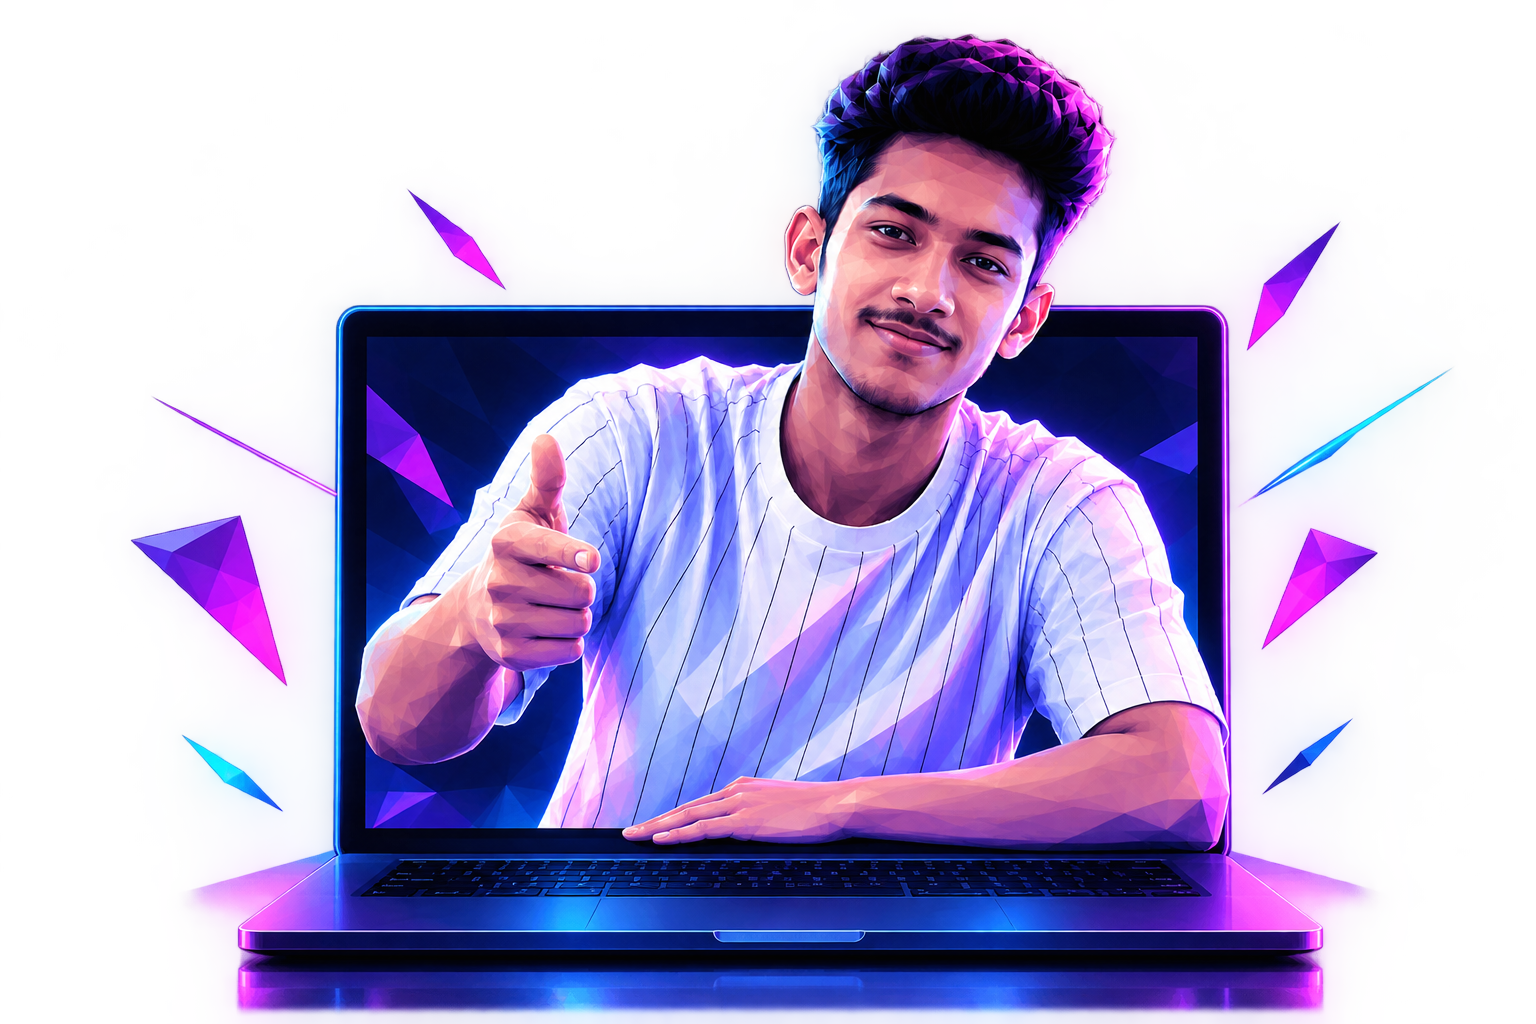
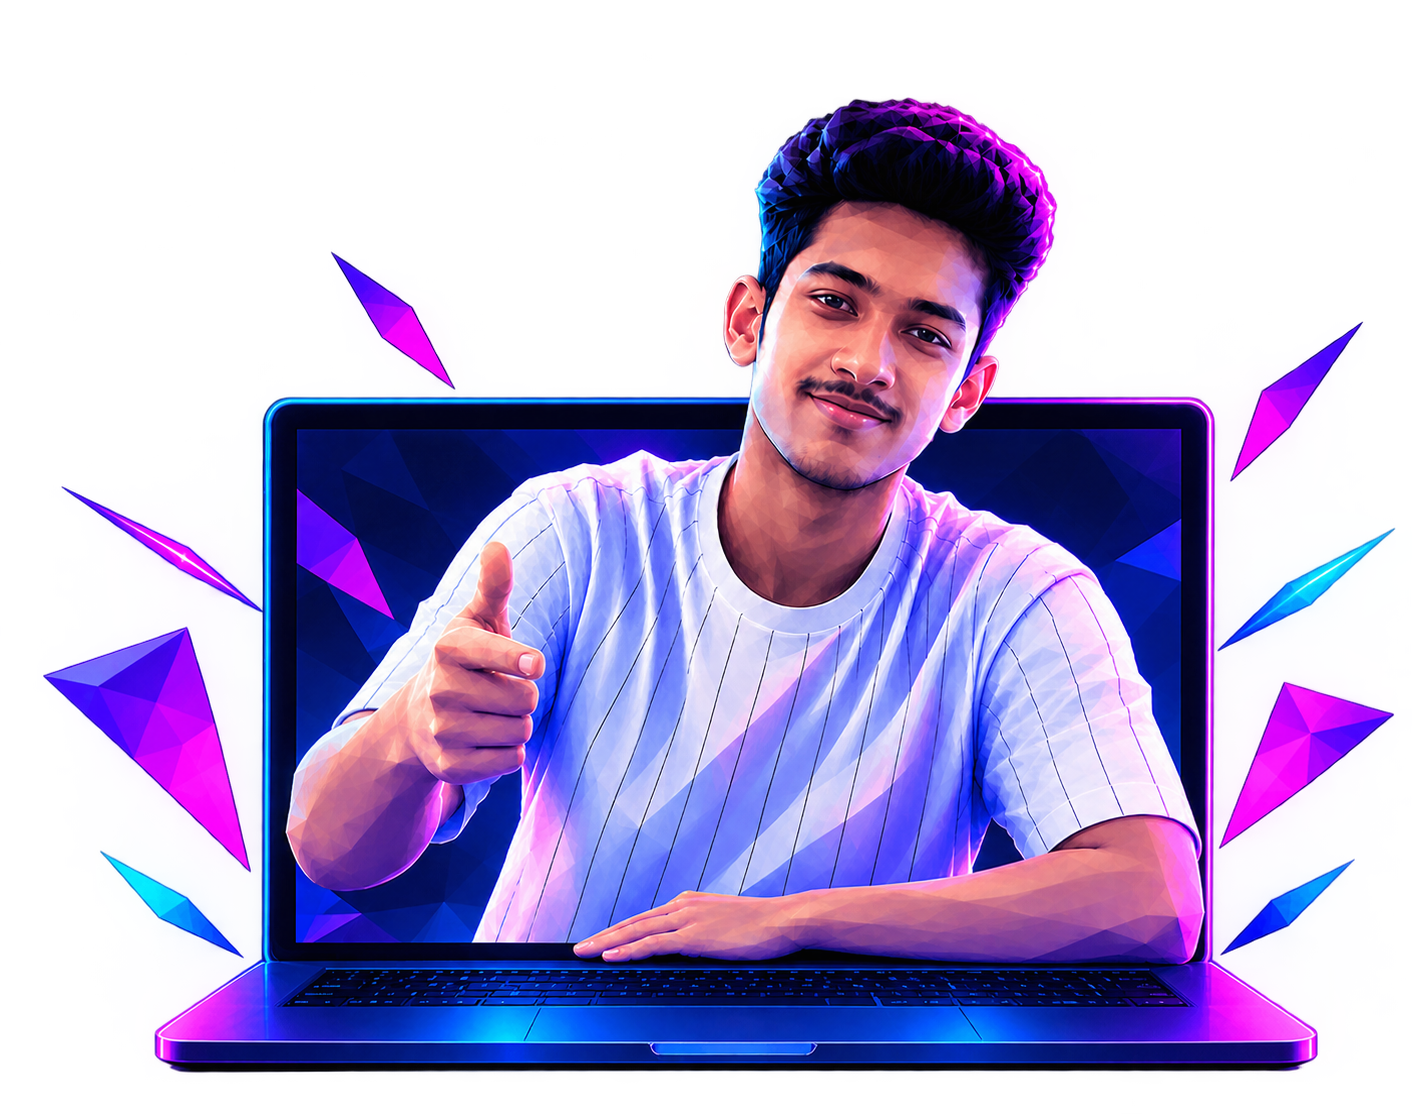
about me update

diff --git a/components/About.tsx b/components/About.tsx
@@ -1,0 +1,166 @@
+"use client";
+
+import { useRef } from "react";
+import { Anton } from "next/font/google";
+import { motion, useScroll, useSpring, useTransform } from "framer-motion";
+
+const anton = Anton({ subsets: ["latin"], weight: "400" });
+
+export default function About() {
+  const ref = useRef<HTMLElement>(null);
+  const { scrollYProgress } = useScroll({
+    target: ref,
+    offset: ["start end", "end start"],
+  });
+  // Scroll-linked: off-screen right → center (when About is centered) → off-screen left
+  // 0 = section below viewport → hidden right, 0.5 = section centered → 0 (visible center), 1 = section above → hidden left
+  const rawX = useTransform(scrollYProgress, [0, 1], ["75vw", "-75vw"]);
+  // Fast scrub matching inspiration translate3d(82.67px): high stiffness for quick right→left
+  const x = useSpring(rawX, { stiffness: 140, damping: 20, mass: 0.5 });
+
+  return (
+    <section
+      ref={ref}
+      id="about"
+      className="relative overflow-hidden scroll-mt-8 bg-[#050508] py-16 md:py-24 lg:py-28"
+      aria-label="About me"
+    >
+      {/* Background decorative text — scroll-linked right→center→left, disappears off-screen left */}
+      <div
+        aria-hidden="true"
+        className="pointer-events-none absolute inset-0 z-0 select-none overflow-hidden"
+      >
+        <motion.div
+          className="absolute inset-0 flex justify-center pt-[6%] sm:pt-[5%] lg:pt-[4%]"
+          style={{ x, willChange: "transform" } as any}
+        >
+          <span
+            className={`${anton.className} block whitespace-nowrap text-[28vw] leading-none tracking-[-0.02em] sm:text-[24vw] md:text-[20vw] lg:text-[16vw] xl:text-[14vw]`}
+            style={{
+              color: "rgba(255,255,255,0.30)",
+              WebkitTextFillColor: "rgba(255,255,255,0.30)",
+              WebkitTextStroke: "1.6px rgba(255,255,255,1)",
+              textTransform: "uppercase",
+            }}
+          >
+            ABOUT ME
+          </span>
+        </motion.div>
+      </div>
+
+      {/* subtle top divider to separate from Hero */}
+      <div className="pointer-events-none absolute inset-x-0 top-0 z-10 h-px bg-gradient-to-r from-transparent via-white/[0.06] to-transparent" />
+
+      <div className="relative z-10 mx-auto max-w-[1440px] px-5 md:px-8 lg:px-10">
+        <div className="grid grid-cols-1 items-center gap-10 md:gap-12 lg:grid-cols-2 lg:gap-12 xl:gap-16">
+          {/* LEFT — Existing image — true transparent cutout, no container/background */}
+          <motion.div
+            initial={{ opacity: 0, y: 16 }}
+            whileInView={{ opacity: 1, y: 0 }}
+            viewport={{ once: true, amount: 0.3 }}
+            transition={{ duration: 0.7, ease: [0.22, 1, 0.36, 1] }}
+            className="relative mx-auto flex w-full max-w-[560px] items-center justify-center lg:mx-0 lg:max-w-none"
+          >
+            <img
+              src="/about.png"
+              alt="H Sujey — laptop and neon crystal artwork"
+              width={1412}
+              height={1114}
+              loading="lazy"
+              decoding="async"
+              className="block h-auto w-full object-contain select-none"
+              style={{
+                maxHeight: "520px",
+                maxWidth: "100%",
+                filter: "drop-shadow(0 22px 40px rgba(0,0,0,0.55))",
+              }}
+              draggable={false}
+            />
+          </motion.div>
+
+          {/* RIGHT — Content */}
+          <motion.div
+            initial={{ opacity: 0, y: 16 }}
+            whileInView={{ opacity: 1, y: 0 }}
+            viewport={{ once: true, amount: 0.3 }}
+            transition={{ duration: 0.7, ease: [0.22, 1, 0.36, 1], delay: 0.1 }}
+            className="flex flex-col"
+          >
+            <p className="text-[13.5px] font-black tracking-[0.02em] text-white">
+              Android Developer &nbsp;·&nbsp; Blockchain & Web3 Engineer &nbsp;·&nbsp; AI/ML Enthusiast
+            </p>
+
+            <div className="mt-6 space-y-4 text-[14.5px] leading-[1.7] text-white/65">
+              <p>
+                Computer Science undergraduate at Chennai Institute of Technology with hands-on
+                experience building mobile, blockchain, and AI-driven applications. Currently
+                interning as a Web Developer at DNYX Business Solutions and previously as a Cloud
+                Technical Intern at MulticoreWare.
+              </p>
+              <p className="text-white/60">
+                Winner of the KAAVAL Hackathon (1st of 400 teams) and Top Finalist at Hack with
+                Uttar Pradesh selected from 20,000+ applicants. Founder of HackHive, a student
+                developer community focused on hackathons, Web3 and Agentic AI, and On-Campus
+                Organising Lead for GDG. Passionate about crafting performant Android experiences,
+                decentralized systems, and applied AI.
+              </p>
+            </div>
+
+            {/* Key details — compact, premium grid */}
+            <div className="mt-8 grid grid-cols-1 gap-4 rounded-2xl border border-white/[0.06] bg-white/[0.02] p-5 backdrop-blur sm:grid-cols-2 sm:p-6">
+              <div className="space-y-1">
+                <p className="text-[11px] font-medium uppercase tracking-[0.14em] text-white/35">
+                  Location
+                </p>
+                <p className="text-[13.5px] font-medium text-white/85">Chennai 600078, India</p>
+              </div>
+              <div className="space-y-1">
+                <p className="text-[11px] font-medium uppercase tracking-[0.14em] text-white/35">
+                  Education
+                </p>
+                <p className="text-[13.5px] font-medium leading-snug text-white/85">
+                  B.E. CSE, Chennai Institute of Technology — 2025–2029
+                </p>
+              </div>
+              <div className="space-y-1">
+                <p className="text-[11px] font-medium uppercase tracking-[0.14em] text-white/35">
+                  Email
+                </p>
+                <a
+                  href="mailto:sujeyhariprasad4@gmail.com"
+                  className="text-[13.5px] font-medium text-white/85 underline decoration-white/15 underline-offset-4 hover:decoration-white/30"
+                >
+                  sujeyhariprasad4@gmail.com
+                </a>
+              </div>
+              <div className="space-y-1">
+                <p className="text-[11px] font-medium uppercase tracking-[0.14em] text-white/35">
+                  Links
+                </p>
+                <div className="flex flex-wrap gap-3 text-[13.5px] font-medium">
+                  <a
+                    href="https://github.com/sujey2007"
+                    target="_blank"
+                    rel="noopener noreferrer"
+                    className="text-white/85 underline decoration-white/15 underline-offset-4 hover:text-white hover:decoration-white/30"
+                  >
+                    GitHub
+                  </a>
+                  <span className="text-white/20">·</span>
+                  <a
+                    href="https://linkedin.com/in/sujey-hariprasad"
+                    target="_blank"
+                    rel="noopener noreferrer"
+                    className="text-white/85 underline decoration-white/15 underline-offset-4 hover:text-white hover:decoration-white/30"
+                  >
+                    LinkedIn
+                  </a>
+                </div>
+              </div>
+            </div>
+          </motion.div>
+        </div>
+      </div>
+    </section>
+  );
+}

diff --git a/app/layout.tsx b/app/layout.tsx
@@ -21,7 +21,7 @@ export default function RootLayout({
         <link href="https://fonts.cdnfonts.com/css/druk-wide-bold" rel="stylesheet" />
         {/* eslint-disable-next-line @next/next/no-page-custom-font */}
         <link
-          href="https://fonts.googleapis.com/css2?family=Bodoni+Moda:opsz,wght@6..96,700;6..96,800;6..96,900&family=Inter:wght@400;500;600;700;800;900&family=Space+Grotesk:wght@400;500;600;700&family=Syne:wght@700;800&display=swap"
+          href="https://fonts.googleapis.com/css2?family=Anton&family=Bodoni+Moda:opsz,wght@6..96,700;6..96,800;6..96,900&family=Inter:wght@400;500;600;700;800;900&family=Space+Grotesk:wght@400;500;600;700&family=Syne:wght@700;800&display=swap"
           rel="stylesheet"
         />
       </head>

diff --git a/app/page.tsx b/app/page.tsx
@@ -1,9 +1,11 @@
 import Hero from "@/components/Hero";
+import About from "@/components/About";
 
 export default function Page() {
   return (
     <main className="min-h-screen bg-[#050508]">
       <Hero />
+      <About />
       {/* Projects anchor — target for "Look My Work" button */}
       <section id="projects" className="relative scroll-mt-6 bg-[#050508] py-24">
         <div className="mx-auto max-w-[1440px] px-5 md:px-8 lg:px-10">
